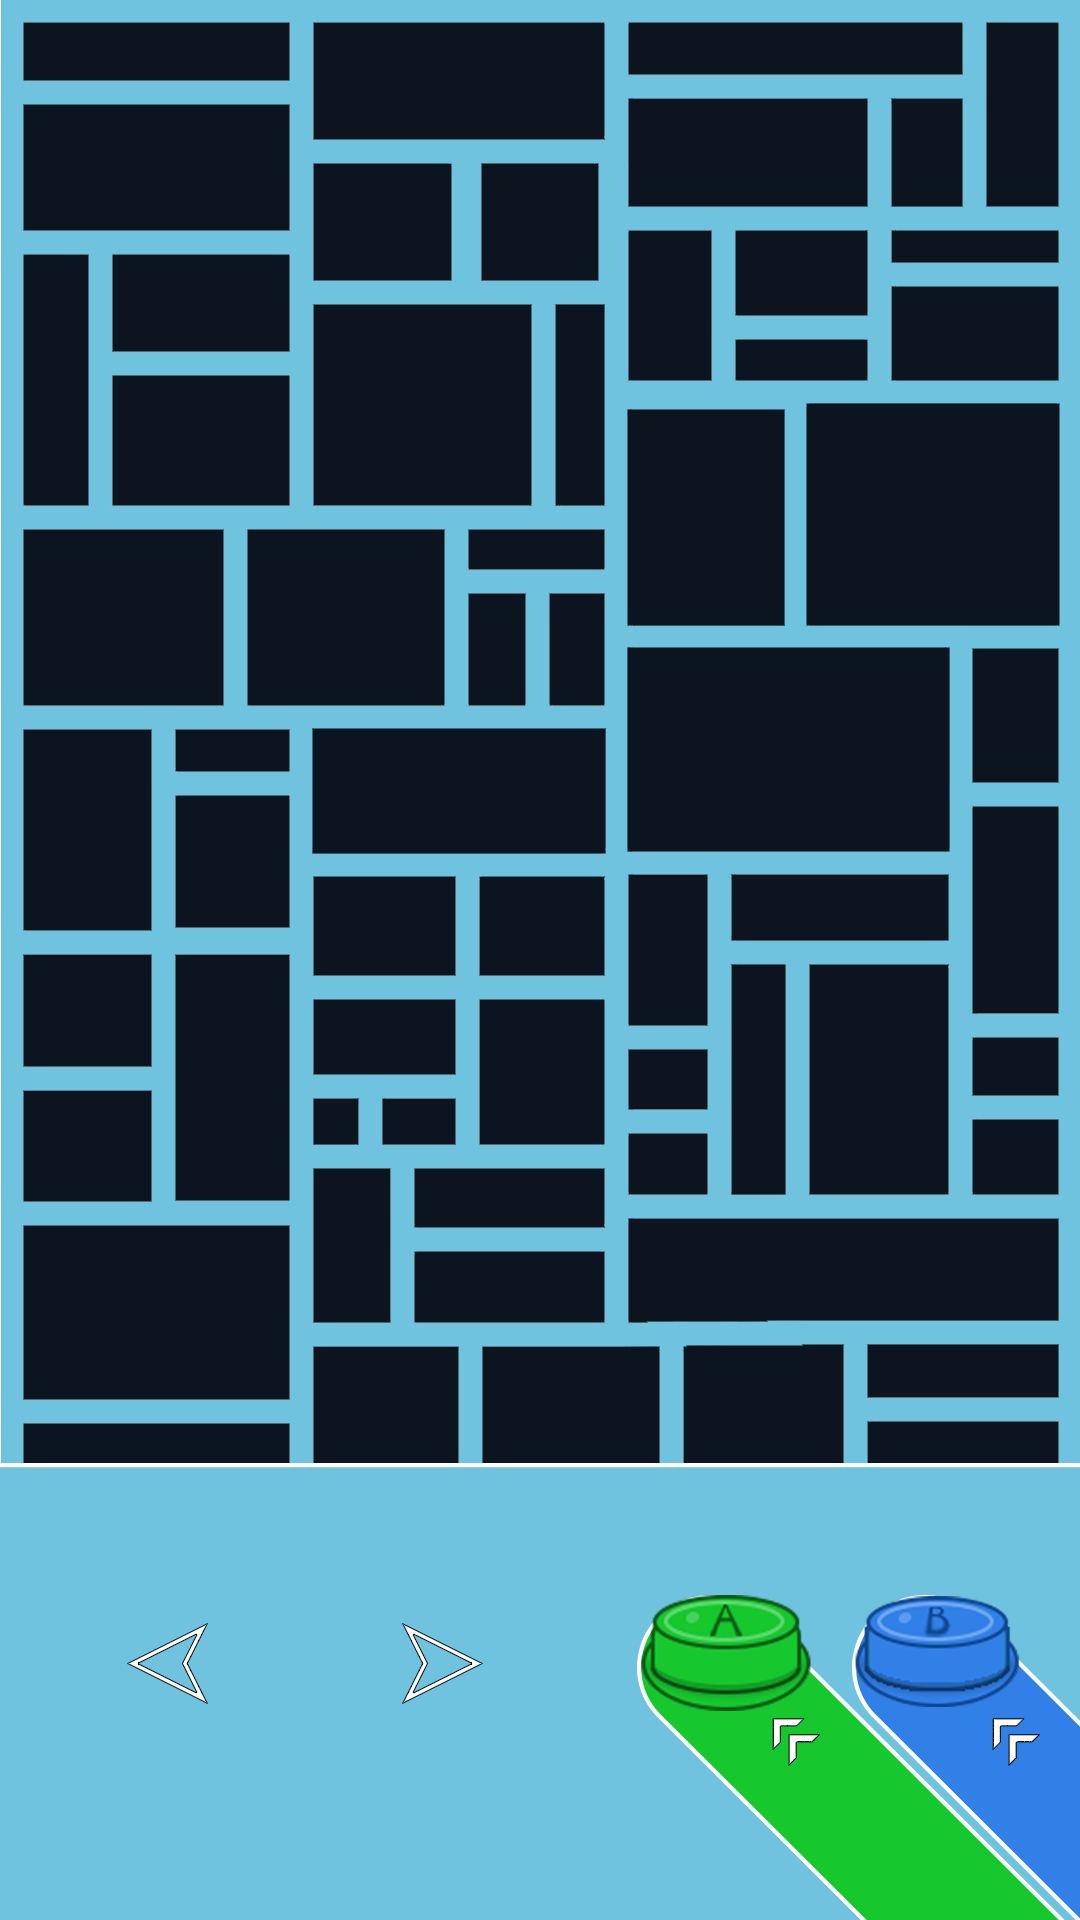
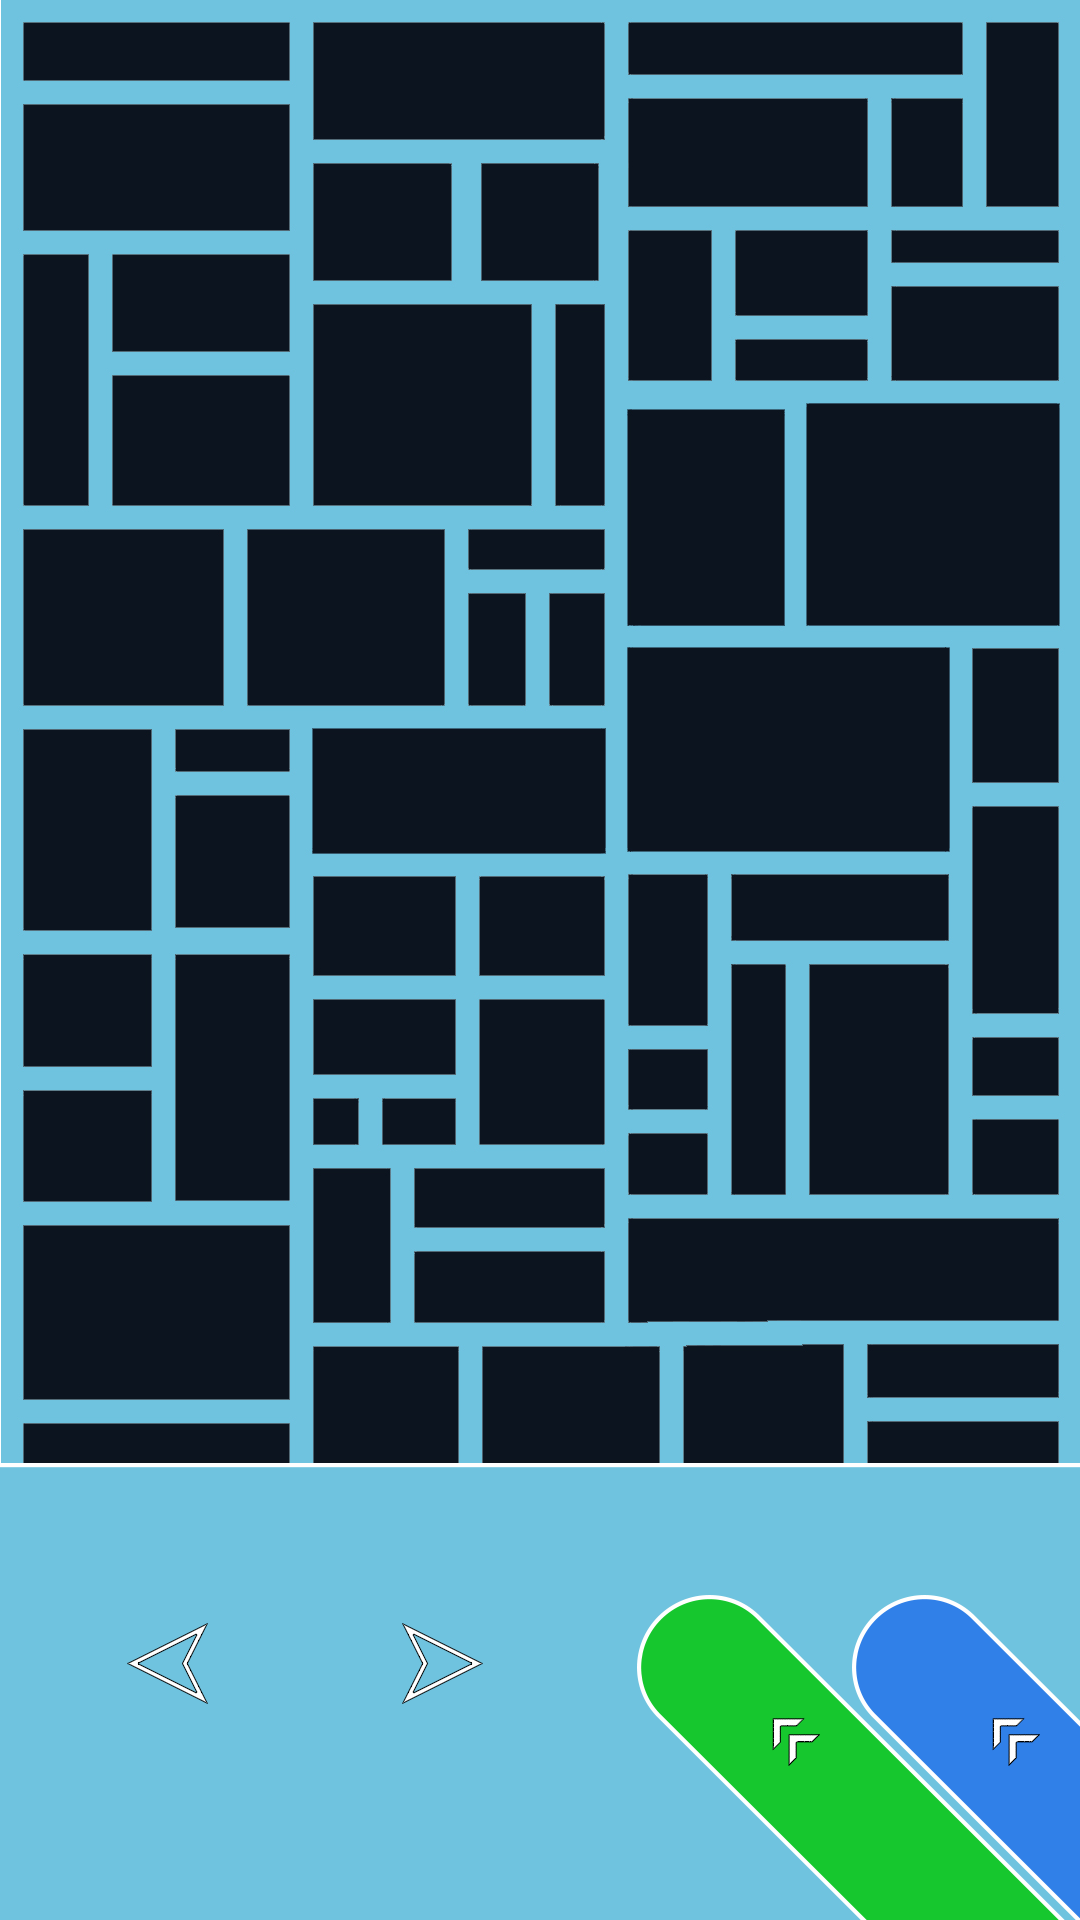
fixing background

Changed region(s): [[0.5806, 0.8125, 0.7639, 0.9062], [0.7944, 0.8125, 0.9472, 0.9062]]

diff --git a/final/v03/www/js/game.js b/final/v03/www/js/game.js
@@ -181,10 +181,10 @@ Game.create = function(){
     joystick.animations.play('wiggle');
 
 
-    knopA = game.add.sprite(445, game.world.height - 255, 'knopA');
+    knopA = game.add.sprite(450, game.world.height - 255, 'knopA');
     knopA.scale.setTo(1.3,1.3);
-    knopB = game.add.sprite(600, game.world.height - 260, 'knopB');
-    knopB.scale.setTo(1.35,1.35);
+    knopB = game.add.sprite(602, game.world.height - 255, 'knopB');
+    knopB.scale.setTo(1.3,1.3);
 
     knopA.animations.add('wiggle', [0,1], 2, true);
     knopA.animations.play('wiggle');
